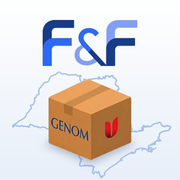
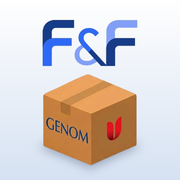
Ícone: volta para a versão anterior, sem o mapa
Claude-Session: https://claude.ai/code/session_01CZFmzCaMnCg1pR5pQDsF27

diff --git a/index.html b/index.html
@@ -9,9 +9,9 @@
 <meta name="apple-mobile-web-app-capable" content="yes">
 <meta name="apple-mobile-web-app-status-bar-style" content="default">
 <meta name="apple-mobile-web-app-title" content="Estoque FFSP">
-<link rel="manifest" href="manifest.json?v=16">
-<link rel="apple-touch-icon" href="icon-180.png?v=16">
-<link rel="icon" href="icon-192.png?v=16">
+<link rel="manifest" href="manifest.json?v=17">
+<link rel="apple-touch-icon" href="icon-180.png?v=17">
+<link rel="icon" href="icon-192.png?v=17">
 <link rel="stylesheet" href="styles.css">
 <script src="https://cdn.jsdelivr.net/npm/xlsx@0.18.5/dist/xlsx.full.min.js" defer></script>
 </head>

diff --git a/sw.js b/sw.js
@@ -1,5 +1,5 @@
 // Service worker: notificações com o app fechado + funcionamento básico offline
-const CACHE = "estoque-v30";
+const CACHE = "estoque-v31";
 const ARQUIVOS = ["./", "./index.html", "./app.js", "./styles.css", "./config.js", "./manifest.json", "./icon-192.png"];
 
 self.addEventListener("install", (e) => {
